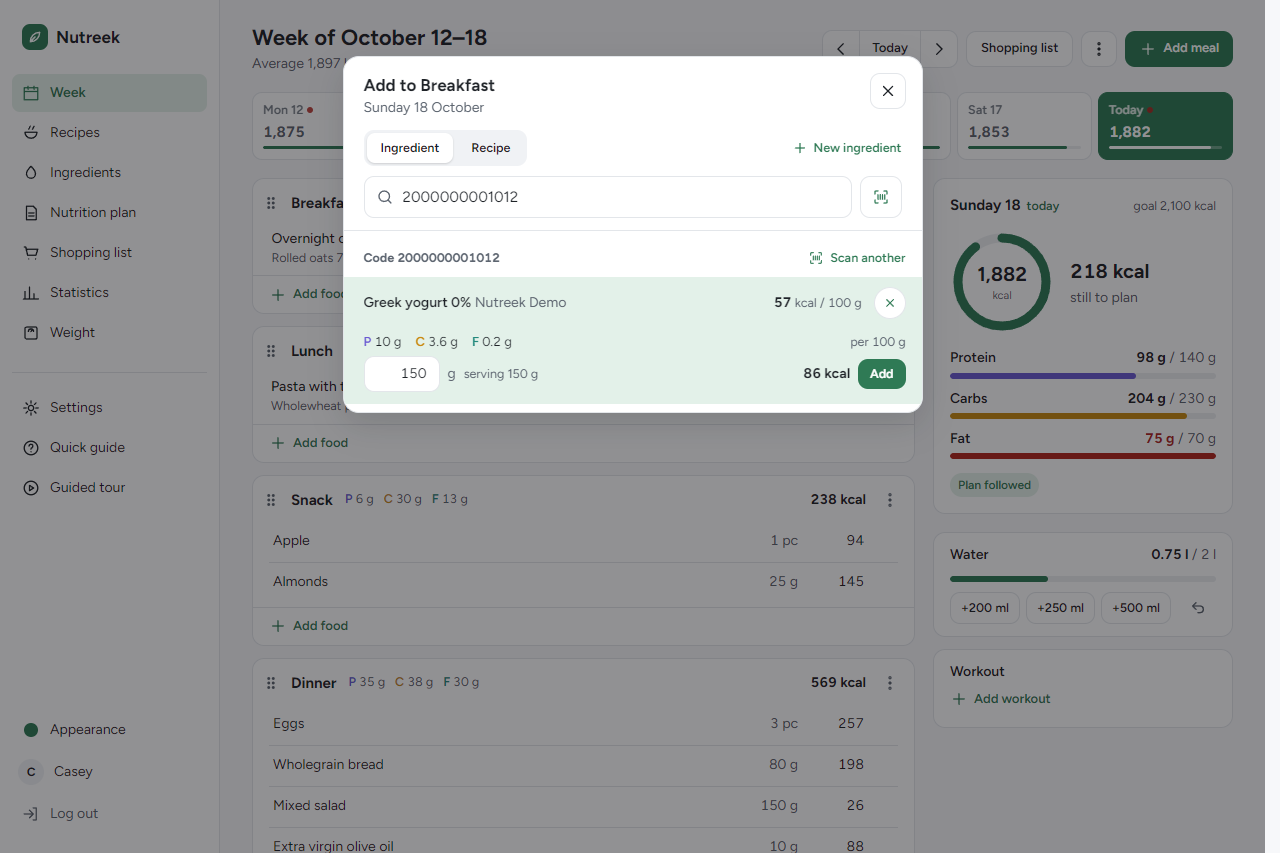
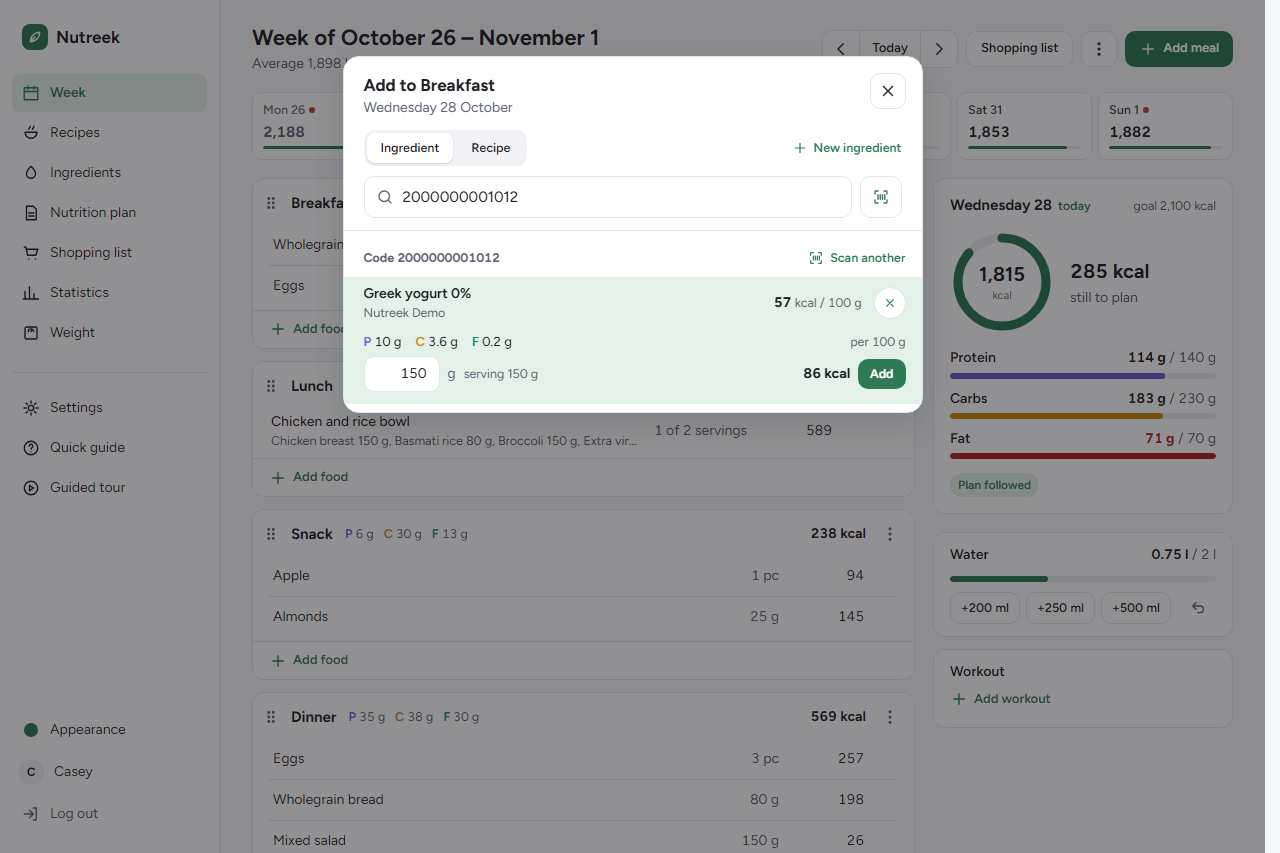
docs(nutreek): update the page after the feedback batch
The local OpenFoodFacts copy updates daily; recipes have a photo and
quantities edited in place in grams or pieces. Retake the recipes, barcode
and administration screenshots.

diff --git a/nutreek.html b/nutreek.html
@@ -252,10 +252,10 @@
                 <h2>Features</h2>
                 <ul class="rows">
                   <li><b>Weekly plans</b><span>A calorie ring and macros per meal, day and week, water and workouts, cheat meals, and one-click copy from the previous week.</span></li>
-                  <li><b>Ingredients</b><span>Local full-text search over OpenFoodFacts, offline, with product photos, kept in sync by a reconciliation job.</span></li>
+                  <li><b>Ingredients</b><span>Local full-text search over OpenFoodFacts, offline, with product photos, updated daily from OpenFoodFacts.</span></li>
                   <li><b>Barcode scanner</b><span>Scan a pack from any food picker: your own ingredients first, then the local OpenFoodFacts copy.</span></li>
                   <li><b>On your phone</b><span>Installs as an app, with a bottom bar. Light, dark or system, in four colours.</span></li>
-                  <li><b>Recipes and templates</b><span>Recipes from ingredients, imported from a URL (schema.org/Recipe), and weekly templates applied in one click.</span></li>
+                  <li><b>Recipes and templates</b><span>Recipes from ingredients, with a photo, imported from a URL (schema.org/Recipe), with quantities edited in place in grams or pieces, and weekly templates applied in one click.</span></li>
                 </ul>
                 <span class="folio">Wednesday</span>
               </section>
@@ -281,7 +281,7 @@
                   <figure class="shot" style="--r: -2deg"><img width="1280" height="853" src="assets/nutreek-scanner.png" alt="The barcode scanner open over the food picker" loading="lazy" /><figcaption>The barcode scanner, from the food picker.</figcaption></figure>
                   <figure class="shot" style="--r: 1.5deg"><img width="1280" height="853" src="assets/nutreek-barcode.png" alt="The scanned product ready to add" loading="lazy" /><figcaption>The scanned product: pick the grams, see the calories.</figcaption></figure>
                   <figure class="shot" style="--r: 1deg"><img width="1920" height="1280" src="assets/nutreek-phone.png" alt="Three phone screens: the week, the scanner and the shopping list" loading="lazy" /><figcaption>On the phone, with the bottom bar.</figcaption></figure>
-                  <figure class="shot" style="--r: -1.5deg"><img width="1280" height="853" src="assets/nutreek-recipes.png" alt="Recipe list with calories and macros per serving" loading="lazy" /><figcaption>Recipes, with macros per serving.</figcaption></figure>
+                  <figure class="shot" style="--r: -1.5deg"><img width="1280" height="853" src="assets/nutreek-recipes.png" alt="Recipe list with calories and macros per serving" loading="lazy" /><figcaption>Recipes, with a photo and macros per serving.</figcaption></figure>
                 </div>
                 <span class="folio">Friday</span>
               </section>
